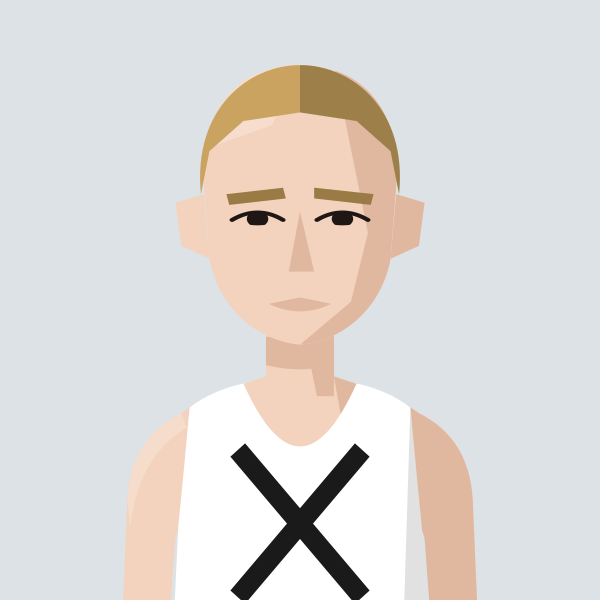
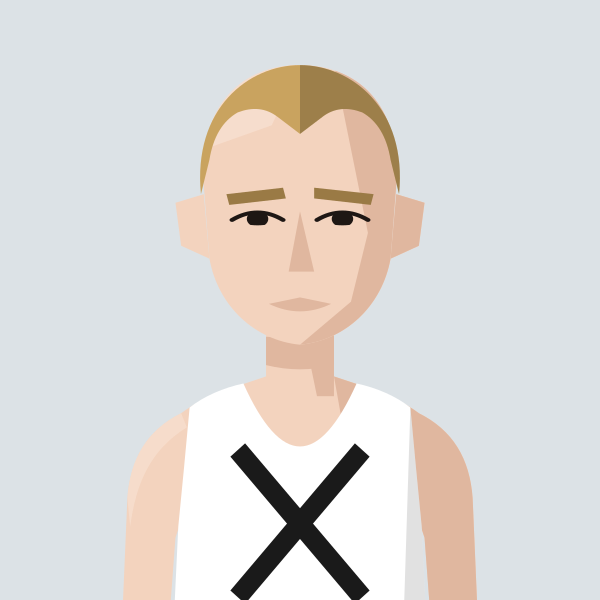
Portraits: Jeremy Dempsey receding with a widow's peak
Claude-Session: https://claude.ai/code/session_01MgmDWhFqnSSnP4iBLKXUZC

Changed region(s): [[0.36, 0.18, 0.66, 0.27], [0.33, 0.24, 0.36, 0.27]]

diff --git a/tools/gen_portraits.py b/tools/gen_portraits.py
@@ -267,7 +267,7 @@ save("ogden", figure("SLH", skin=1, hair="crop", hair_colour="dark brown"))
 save("ogden_grey", figure("SLH", "grey"))
 save("mccallum", figure("H/W", skin=1, hair="crop", hair_colour="black"))
 save("penney", figure("H/W", skin=1, hair="quiff", hair_colour="dark brown"))
-save("dempsey", figure("THH", skin=1, hair="crop", hair_colour="blonde"))
+save("dempsey", figure("THH", skin=1, hair="croppeak", hair_colour="blonde"))
 save("hart", figure("BEL", skin=1, hair="tousled", hair_colour="light brown"))
 save("sanderson", figure("G&G", skin=2, hair="quiff", hair_colour="dark brown", facial="stubble"))
 save("fyfe", figure("BEL", skin=2, hair="tousled", hair_colour="dark brown"))
